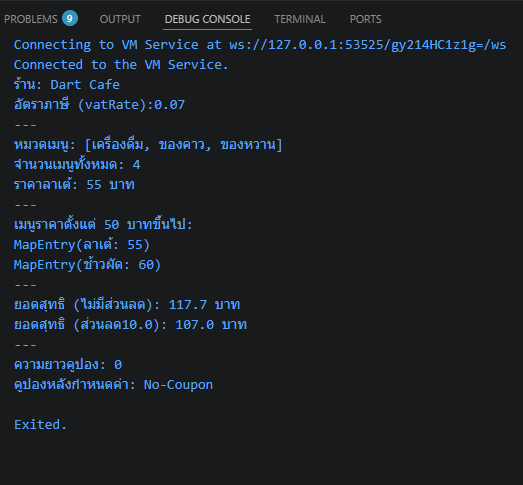
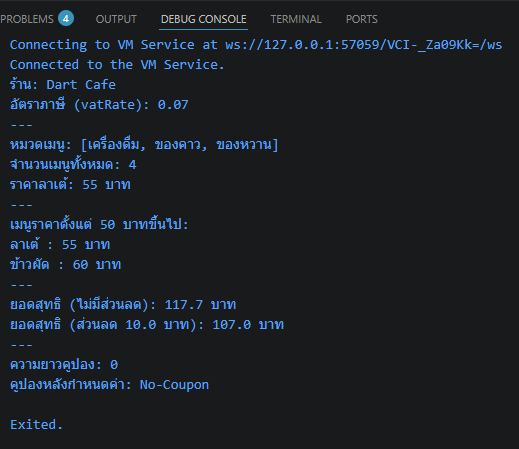
finish

Changed region(s): [[0.0, 0.0, 0.9865, 0.9042], [0.0, 0.9354, 0.1233, 0.9666]]

diff --git a/(RE)Quiz_dart/q1_basic.dart b/(RE)Quiz_dart/q1_basic.dart
@@ -1,41 +1,49 @@
-void vatRate(){
+void vatRate() {
   final double vat = 0.07;
   print('อัตราภาษี (vatRate): $vat');
 }
-void main (){
+void main() {
   final String shopName = 'Dart Cafe';
   print('ร้าน: $shopName');
   vatRate();
   print('---');
   categories();
   print('---');
-  calTotal(55,2,10);
-  String? coupun;
-  print("ความยาวคูปอง: ${coupun?.length ?? 0}");
-  print("คูปองหลังกำหนดค่า: ${coupun ??= "No-Coupon"}");
+  calTotal(55, 2, 10);
+
+  String? coupon;
+  print('ความยาวคูปอง: ${coupon?.length ?? 0}');
+  print('คูปองหลังกำหนดค่า: ${coupon ??= "No-Coupon"}');
 }
-void categories(){
-  Map<String,int>menu = {
-    'ลาเต้':55,
-    'เค้ก':35,
-    'น้ำเปล่า':7,
-    'ช้าวผัด':60
+
+void categories() {
+  Map<String, int> menu = {
+    'ลาเต้': 55,
+    'เค้ก': 35,
+    'น้ำเปล่า': 7,
+    'ข้าวผัด': 60,
   };
+
   print('หมวดเมนู: [เครื่องดื่ม, ของคาว, ของหวาน]');
   print('จำนวนเมนูทั้งหมด: ${menu.length}');
   print('ราคาลาเต้: ${menu['ลาเต้']} บาท');
   print('---');
+
   print('เมนูราคาตั้งแต่ 50 บาทขึ้นไป:');
-  for (var k in menu.entries){
-    if (k.value >= 50){
-      print(k);
+  for (var item in menu.entries) {
+    if (item.value >= 50) {
+      print('${item.key} : ${item.value} บาท');
     }
   }
 }
-void calTotal( int price,int qty,double discount){
-  double total = (price*qty)*(1+0.07);
-  double total_dis = ((price*qty) -discount)*(1+0.07);
+
+void calTotal(int price, int qty, double discount) {
+  const double vat = 0.07;
+
+  double total = (price * qty) * (1 + vat);
+  double totalDis = ((price * qty) - discount) * (1 + vat);
+
   print('ยอดสุทธิ (ไม่มีส่วนลด): $total บาท');
-  print('ยอดสุทธิ (ส่วนลด$discount): $total_dis บาท');
+  print('ยอดสุทธิ (ส่วนลด $discount บาท): $totalDis บาท');
   print('---');
 }